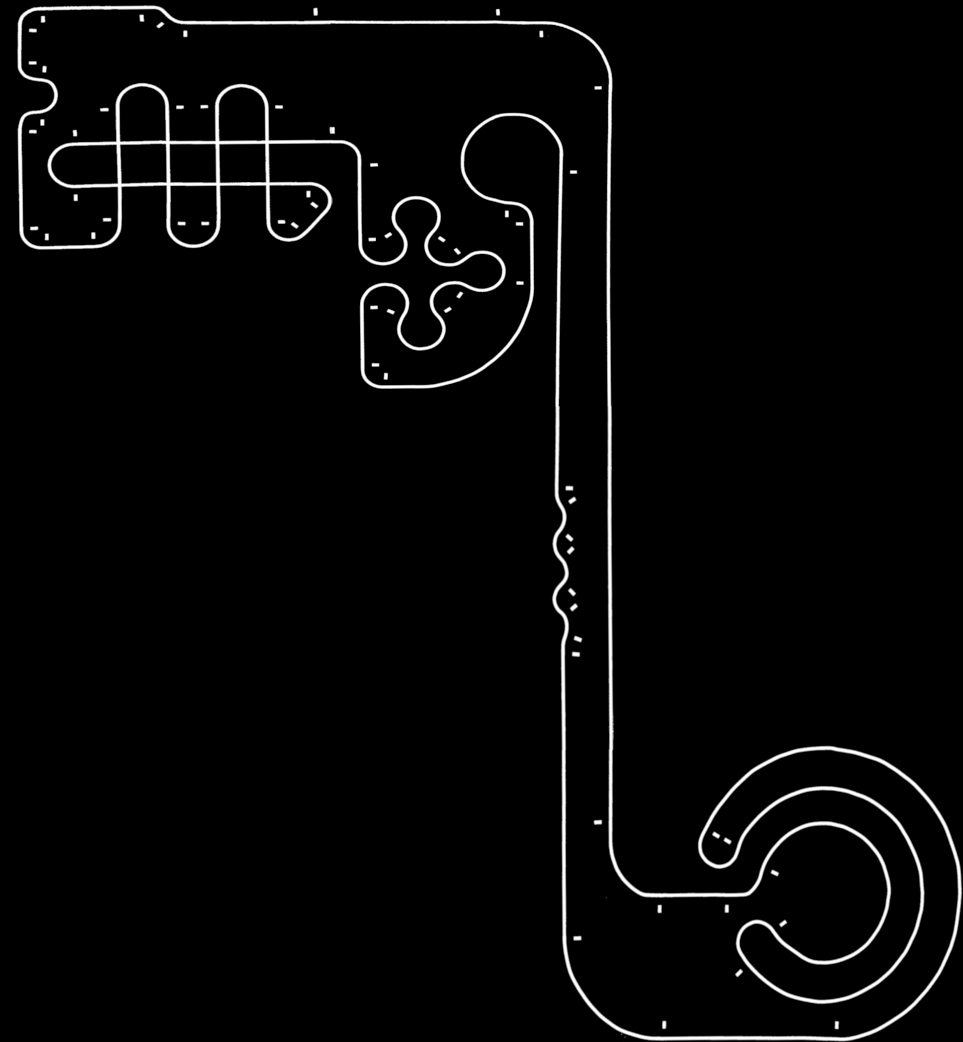
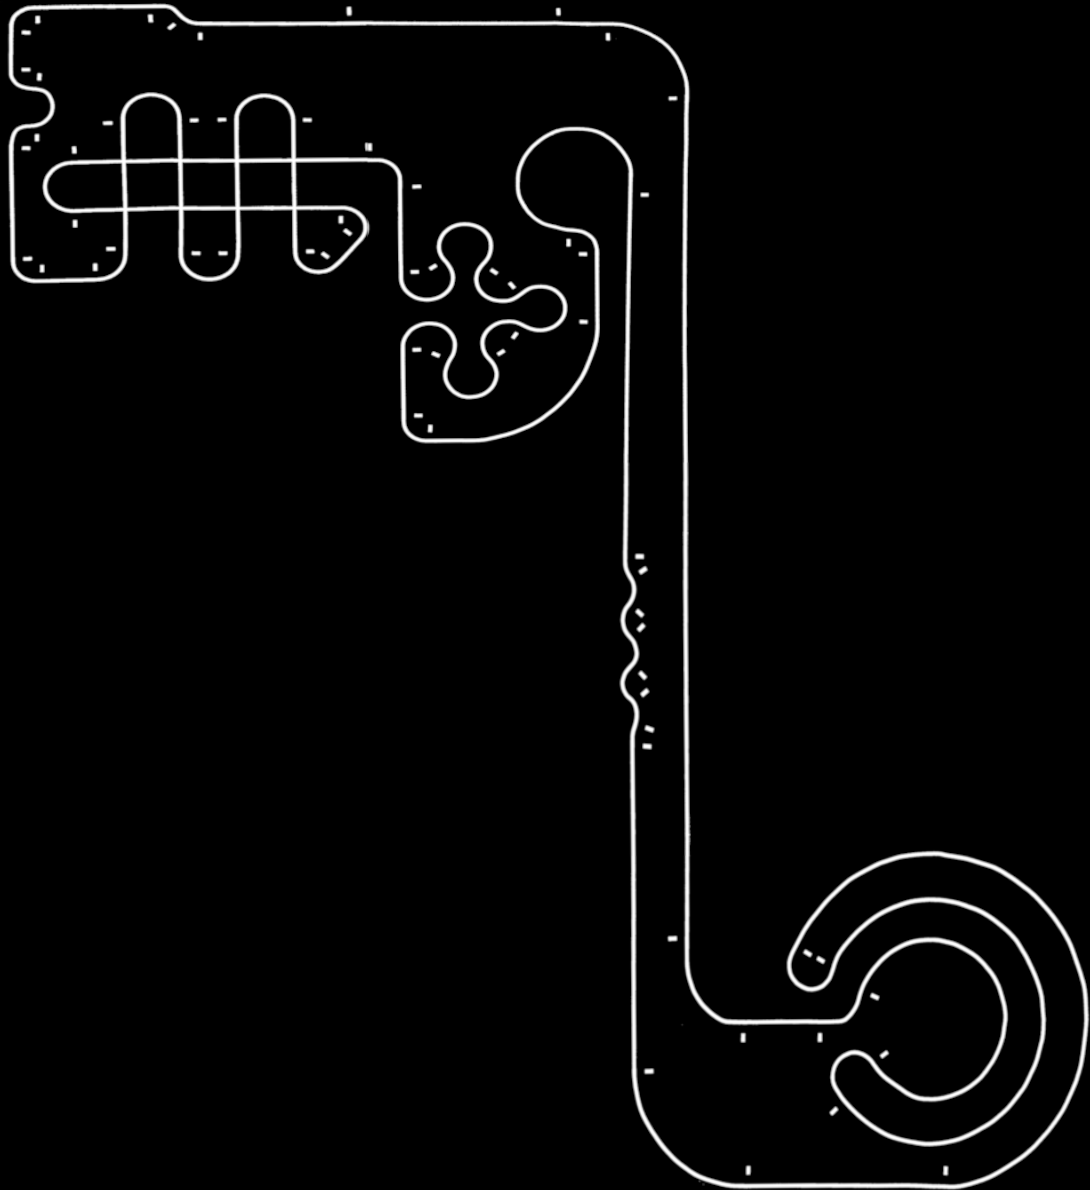
organize pid functions

diff --git a/pid.py b/pid.py
@@ -8,108 +8,84 @@ class Game:
     def __init__(self):
         pygame.init()
         pygame.display.set_caption("Line Follower")
-        self.screen_width = 560
-        self.screen_height = 890
+
+        self.map_name = "map1.png"
+
+        self.map_width_cm = 545
+        self.map_height_cm = 595
+
+        self.map_width_pixels = self.map_width_cm * 2
+        self.map_height_pixels = self.map_height_cm * 2
+        self.margin_pixels = 50
+
+        self.screen_width = self.map_width_pixels + (2 * self.margin_pixels)
+        self.screen_height = self.map_height_pixels + (2 * self.margin_pixels)
+
         self.screen = pygame.display.set_mode((self.screen_width , self.screen_height))
         self.clock = pygame.time.Clock()
         self.ticks = 60
         self.exit = False
         self.last_error = 0
 
-    def run(self):
         current_dir = os.path.dirname(os.path.abspath(__file__))
-        image_path = os.path.join(current_dir, "media" , "raiju.png")
-        robot_image = pygame.image.load(image_path)
-
-        robot = Robot(36, 200, 90)
+        robot_image_path = os.path.join(current_dir, "media" , "raiju.png")
+        robot_image = pygame.image.load(robot_image_path)
         robot_size_x_cm = 12
         robot_size_y_cm = 6
-        resized_image = pygame.transform.scale(robot_image, (robot.centimeters_to_pixel(robot_size_y_cm), robot.centimeters_to_pixel(robot_size_x_cm)))
-        waypoint_idx = 0
-        finished_counter = 0
+        robot_init_x_cm = 200
+        robot_init_y_cm = 35
+        robot_init_angle = 0
+
+        self.robot = Robot(robot_init_x_cm, robot_init_y_cm, robot_init_angle)
+        self.resized_robot_img = pygame.transform.scale(robot_image, (self.robot.centimeters_to_pixel(robot_size_y_cm), self.robot.centimeters_to_pixel(robot_size_x_cm)))
+    
+    def draw_line_sensor(self):
+        for sensor in self.robot.line_sensor_pos:
+                sensor_position = self.robot.position + self.robot.centimeters_to_pixel(sensor).rotate(-self.robot.angle)
+                line_sensor_draw = sensor_position + Vector2(3, 0).rotate(-self.robot.angle)
+                pygame.draw.circle(self.screen, (255, 0, 255), (line_sensor_draw.x, line_sensor_draw.y), 1)
+
+    def draw_robot(self):
+            rotated = pygame.transform.rotate(self.resized_robot_img, self.robot.angle)
+            rect = rotated.get_rect()
+            self.screen.blit(rotated, self.robot.position- (rect.width / 2, rect.height / 2))
+
+    def draw_map(self):
+        map = Map(self.screen)
+        map.load_map_from_file("map3.png", self.margin_pixels, self.map_width_pixels, self.map_height_pixels)
+
+    def run(self):
 
         while not self.exit:
-            # Event queue
             for event in pygame.event.get():
                 if event.type == pygame.QUIT:
                     self.exit = True
 
             dt = self.clock.get_time() / 1000
 
-            # Line sensor
-            line_sensor = robot.get_line_sensor(self.screen, self.screen_width, self.screen_height)
+            line_sensor = self.robot.get_line_sensor(self.screen, self.screen_width, self.screen_height)
             # print(line_sensor)
-
             error = 1.5 * (line_sensor[7] - line_sensor[4]) + 3 * (line_sensor[9] - line_sensor[2]) + 2 * (line_sensor[8] -line_sensor[3]) + (line_sensor[6] - line_sensor[5])
             
-            if (waypoint_idx >= 62):
-                finished_counter += 1
-                if (finished_counter > 50):
-                    robot.motor_l.set_voltage(0)
-                    robot.motor_r.set_voltage(0)
-                else:
-                    kp = 3.3
-                    kd = 0.001
-                    
-                    derivative = kd * (error - self.last_error)
-                    robot.motor_l.set_voltage(30 - (error * kp + derivative * kd))
-                    robot.motor_r.set_voltage(30 + (error * kp + derivative * kd))
-
-            elif (waypoint_idx < 37):
-                kp = 5
-                kd = 0.001
-                
-                derivative = kd * (error - self.last_error)
-                robot.motor_l.set_voltage(41 - (error * kp + derivative * kd))
-                robot.motor_r.set_voltage(41 + (error * kp + derivative * kd))
-            elif waypoint_idx < 51:
-                kp = 3.4
-                kd = 0.001
-                
-                derivative = kd * (error - self.last_error)
-                robot.motor_l.set_voltage(30 - (error * kp + derivative * kd))
-                robot.motor_r.set_voltage(30 + (error * kp + derivative * kd))
-            elif waypoint_idx < 61:
-                kp = 7.2
-                kd = 0.04
-                
-                derivative = kd * (error - self.last_error)
-                robot.motor_l.set_voltage(27 - (error * kp + derivative * kd))
-                robot.motor_r.set_voltage(27 + (error * kp + derivative * kd))
-
-            else:
-                kp = 5
-                kd = 0.001
-                derivative = kd * (error - self.last_error)
-                robot.motor_l.set_voltage(42 - (error * kp + derivative * kd))
-                robot.motor_r.set_voltage(42 + (error * kp + derivative * kd))
-
-
+            kp = 5
+            kd = 0.001
+            base_speed = 41
+            
+            derivative = kd * (error - self.last_error)
+            self.robot.motor_l.set_voltage(base_speed - (error * kp + derivative * kd))
+            self.robot.motor_r.set_voltage(base_speed + (error * kp + derivative * kd))
+            
             self.last_error = error
-            robot.update(dt)
+            self.robot.update(dt)
             
             #Draw
             self.screen.fill((0, 0, 0))
-            map = Map(20, 245, 270, self.screen)
-            map.load_map_from_file()
-            
-            # Update travalled distance
-            if (waypoint_idx < len(map.waypoint)):
-                if (map.near_waypoint(robot.position, map.waypoint[waypoint_idx])):
-                    waypoint_idx += 1
-                    print(waypoint_idx)
 
-            # Draw line sensor
-            for sensor in robot.line_sensor_pos:
-                sensor_position = robot.position + robot.centimeters_to_pixel(sensor).rotate(-robot.angle)
-                line_sensor_draw = sensor_position + Vector2(3, 0).rotate(-robot.angle)
-                pygame.draw.circle(self.screen, (255, 0, 255), (line_sensor_draw.x, line_sensor_draw.y), 1)
-
-
-            rotated = pygame.transform.rotate(resized_image, robot.angle)
-            rect = rotated.get_rect()
-            self.screen.blit(rotated, robot.position- (rect.width / 2, rect.height / 2))
+            self.draw_map()
+            self.draw_line_sensor()
+            self.draw_robot()
             pygame.display.flip()
+
             self.clock.tick(self.ticks)
 
 

diff --git a/generate_track.py b/generate_track.py
@@ -5,11 +5,9 @@ from pygame.math import Vector2
 import os
 
 class Map:
-    def __init__(self, x_cm, y_cm, angle, screen):
-        x = self.centimeters_to_pixel(x_cm)
-        y = self.centimeters_to_pixel(y_cm)
-        self.last_point = Vector2(x, y)
-        self.last_angle = angle
+    def __init__(self, screen):
+        self.last_point = Vector2(0, 0)
+        self.last_angle = 0
         self.screen = screen
         self.line_color = (255, 255, 255)
         self.line_width = self.centimeters_to_pixel(2)
@@ -117,7 +115,12 @@ class Map:
             return True
         return False
 
-    def gen_default_track(self):
+    def gen_default_track(self, x_cm, y_cm, angle ):
+        x = self.centimeters_to_pixel(x_cm)
+        y = self.centimeters_to_pixel(y_cm)
+        self.last_point = Vector2(x, y)
+        self.last_angle = angle
+    
         self.gen_marker('Right', self.last_point)
         self.gen_line(100)
         self.gen_marker('Right', self.last_point)
@@ -213,12 +216,13 @@ class Map:
         self.gen_line(130)
 
 
-    def load_map_from_file(self):
-            current_dir = os.path.dirname(os.path.abspath(__file__))
-            map_path = os.path.join(current_dir, "maps" , "map1.png")
-            custom_map = pygame.image.load(map_path)
-            resized_custom_map = pygame.transform.scale(custom_map, (460, 790)) # 36pixels -> 18cm
-            self.screen.blit(resized_custom_map, (50, 50))
+    def load_map_from_file(self, file_name, margin_size, width, height):
+
+        current_dir = os.path.dirname(os.path.abspath(__file__))
+        map_path = os.path.join(current_dir, "maps" , file_name)
+        custom_map = pygame.image.load(map_path)
+        resized_custom_map = pygame.transform.scale(custom_map, (width, height))
+        self.screen.blit(resized_custom_map, (margin_size, margin_size))
 
 
 def main():
@@ -227,8 +231,8 @@ def main():
 
     # Set up the display window
     screen = pygame.display.set_mode((1280, 810))
-    map = Map(20, 245, 270, screen)
-    map.gen_default_track()
+    map = Map(screen)
+    map.gen_default_track(20, 245, 270)
 
     # Update the display
     pygame.display.update()

diff --git a/robot.py b/robot.py
@@ -79,8 +79,7 @@ class Robot:
             
             else:
                 val = screen.get_at((int(sensor_position.x), int(sensor_position.y)))
-                
-                is_black = (val[0] != 255)
+                is_black = (val[0] < 200)
                 if is_black:
                     sensor_val.append(1)
                 else:
